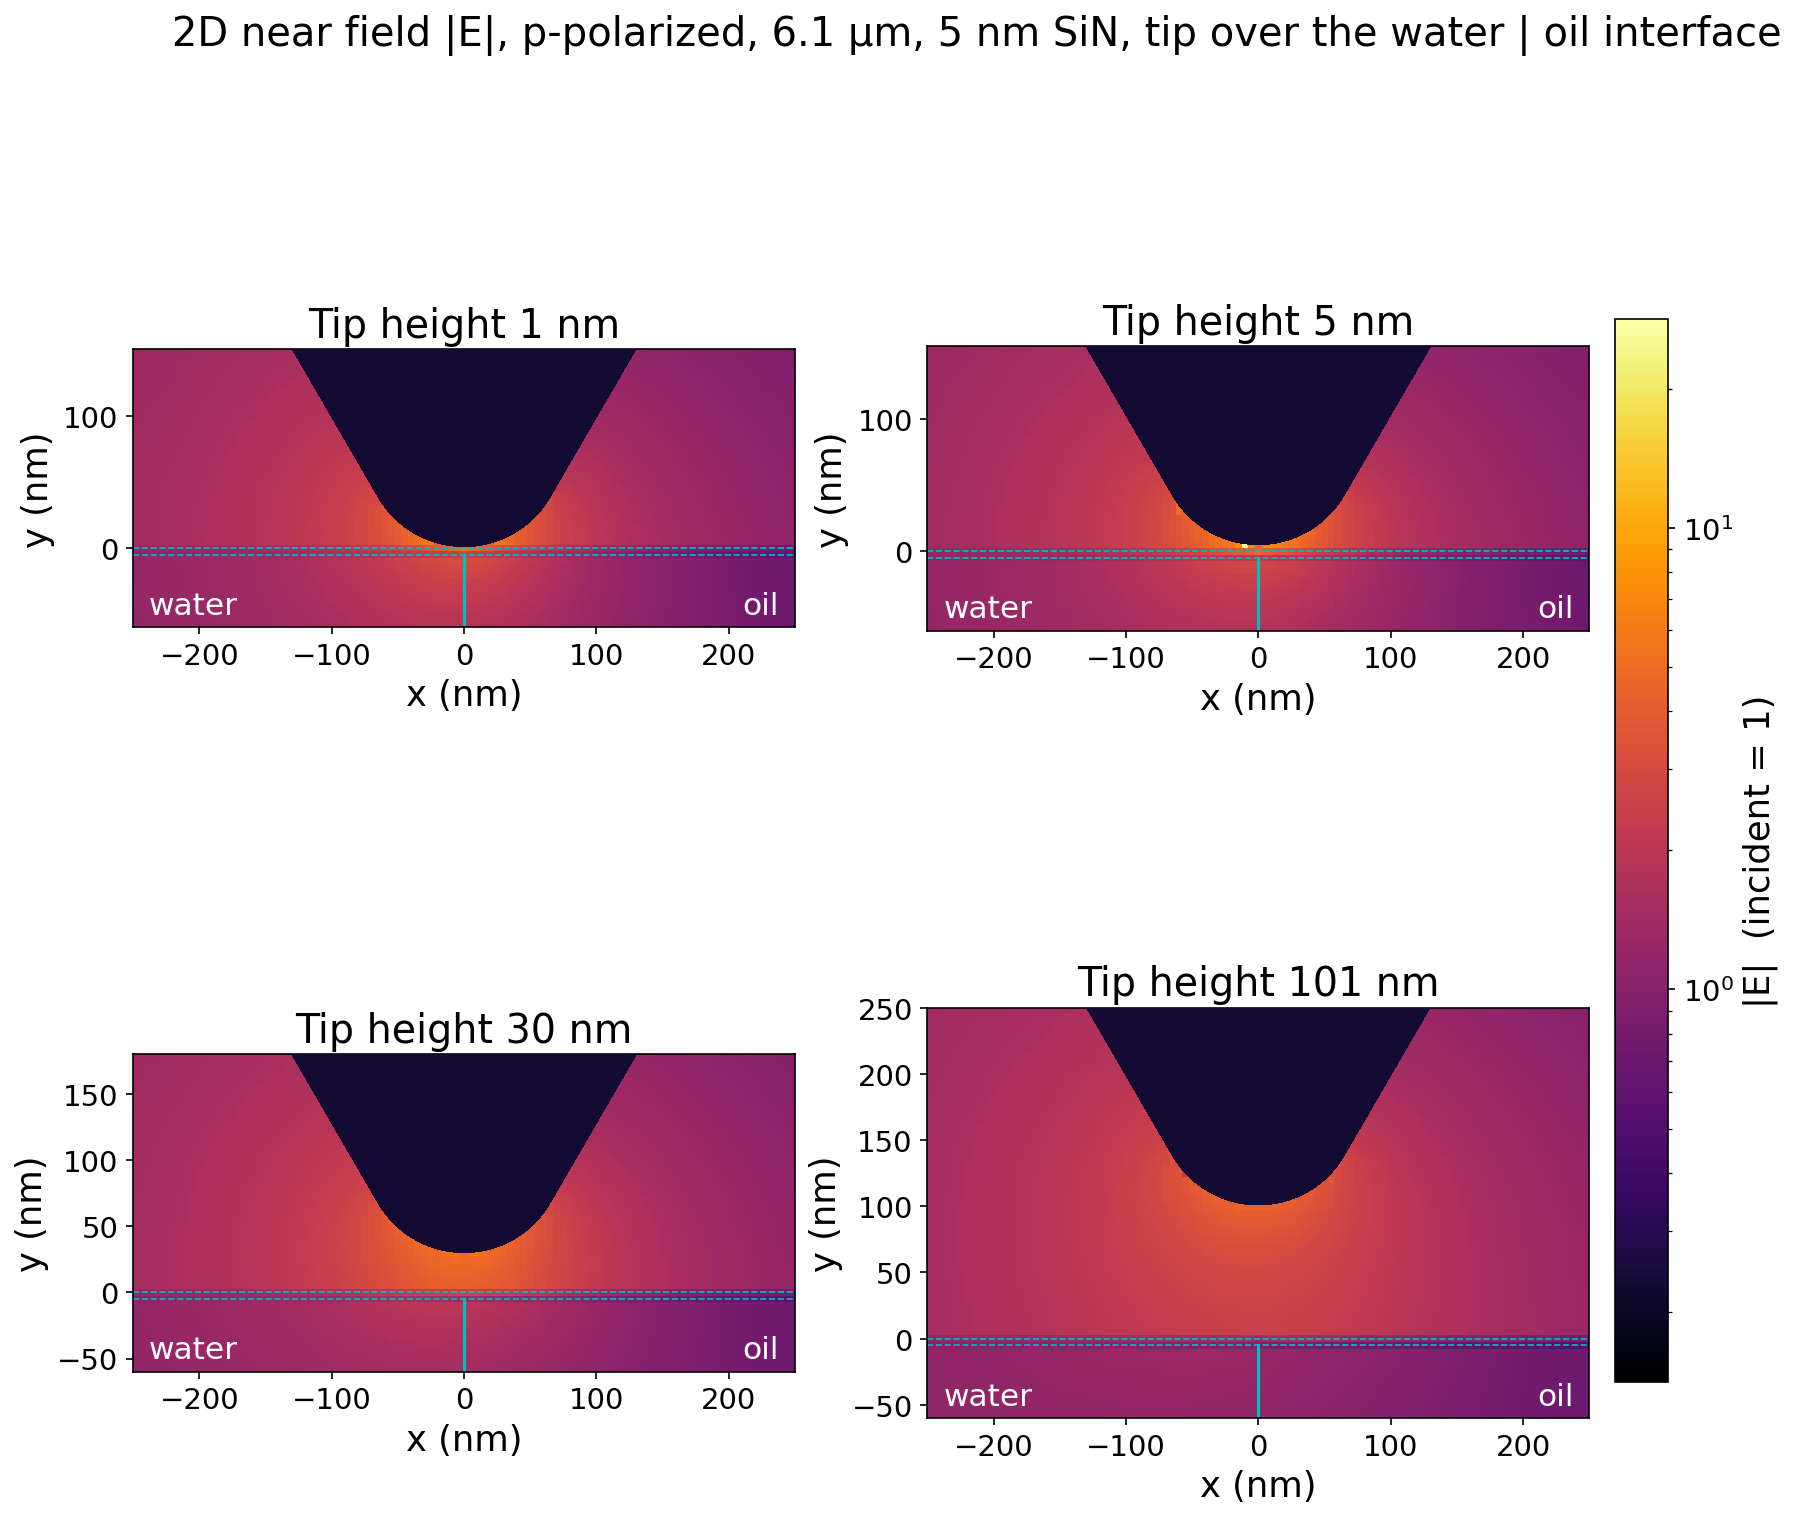
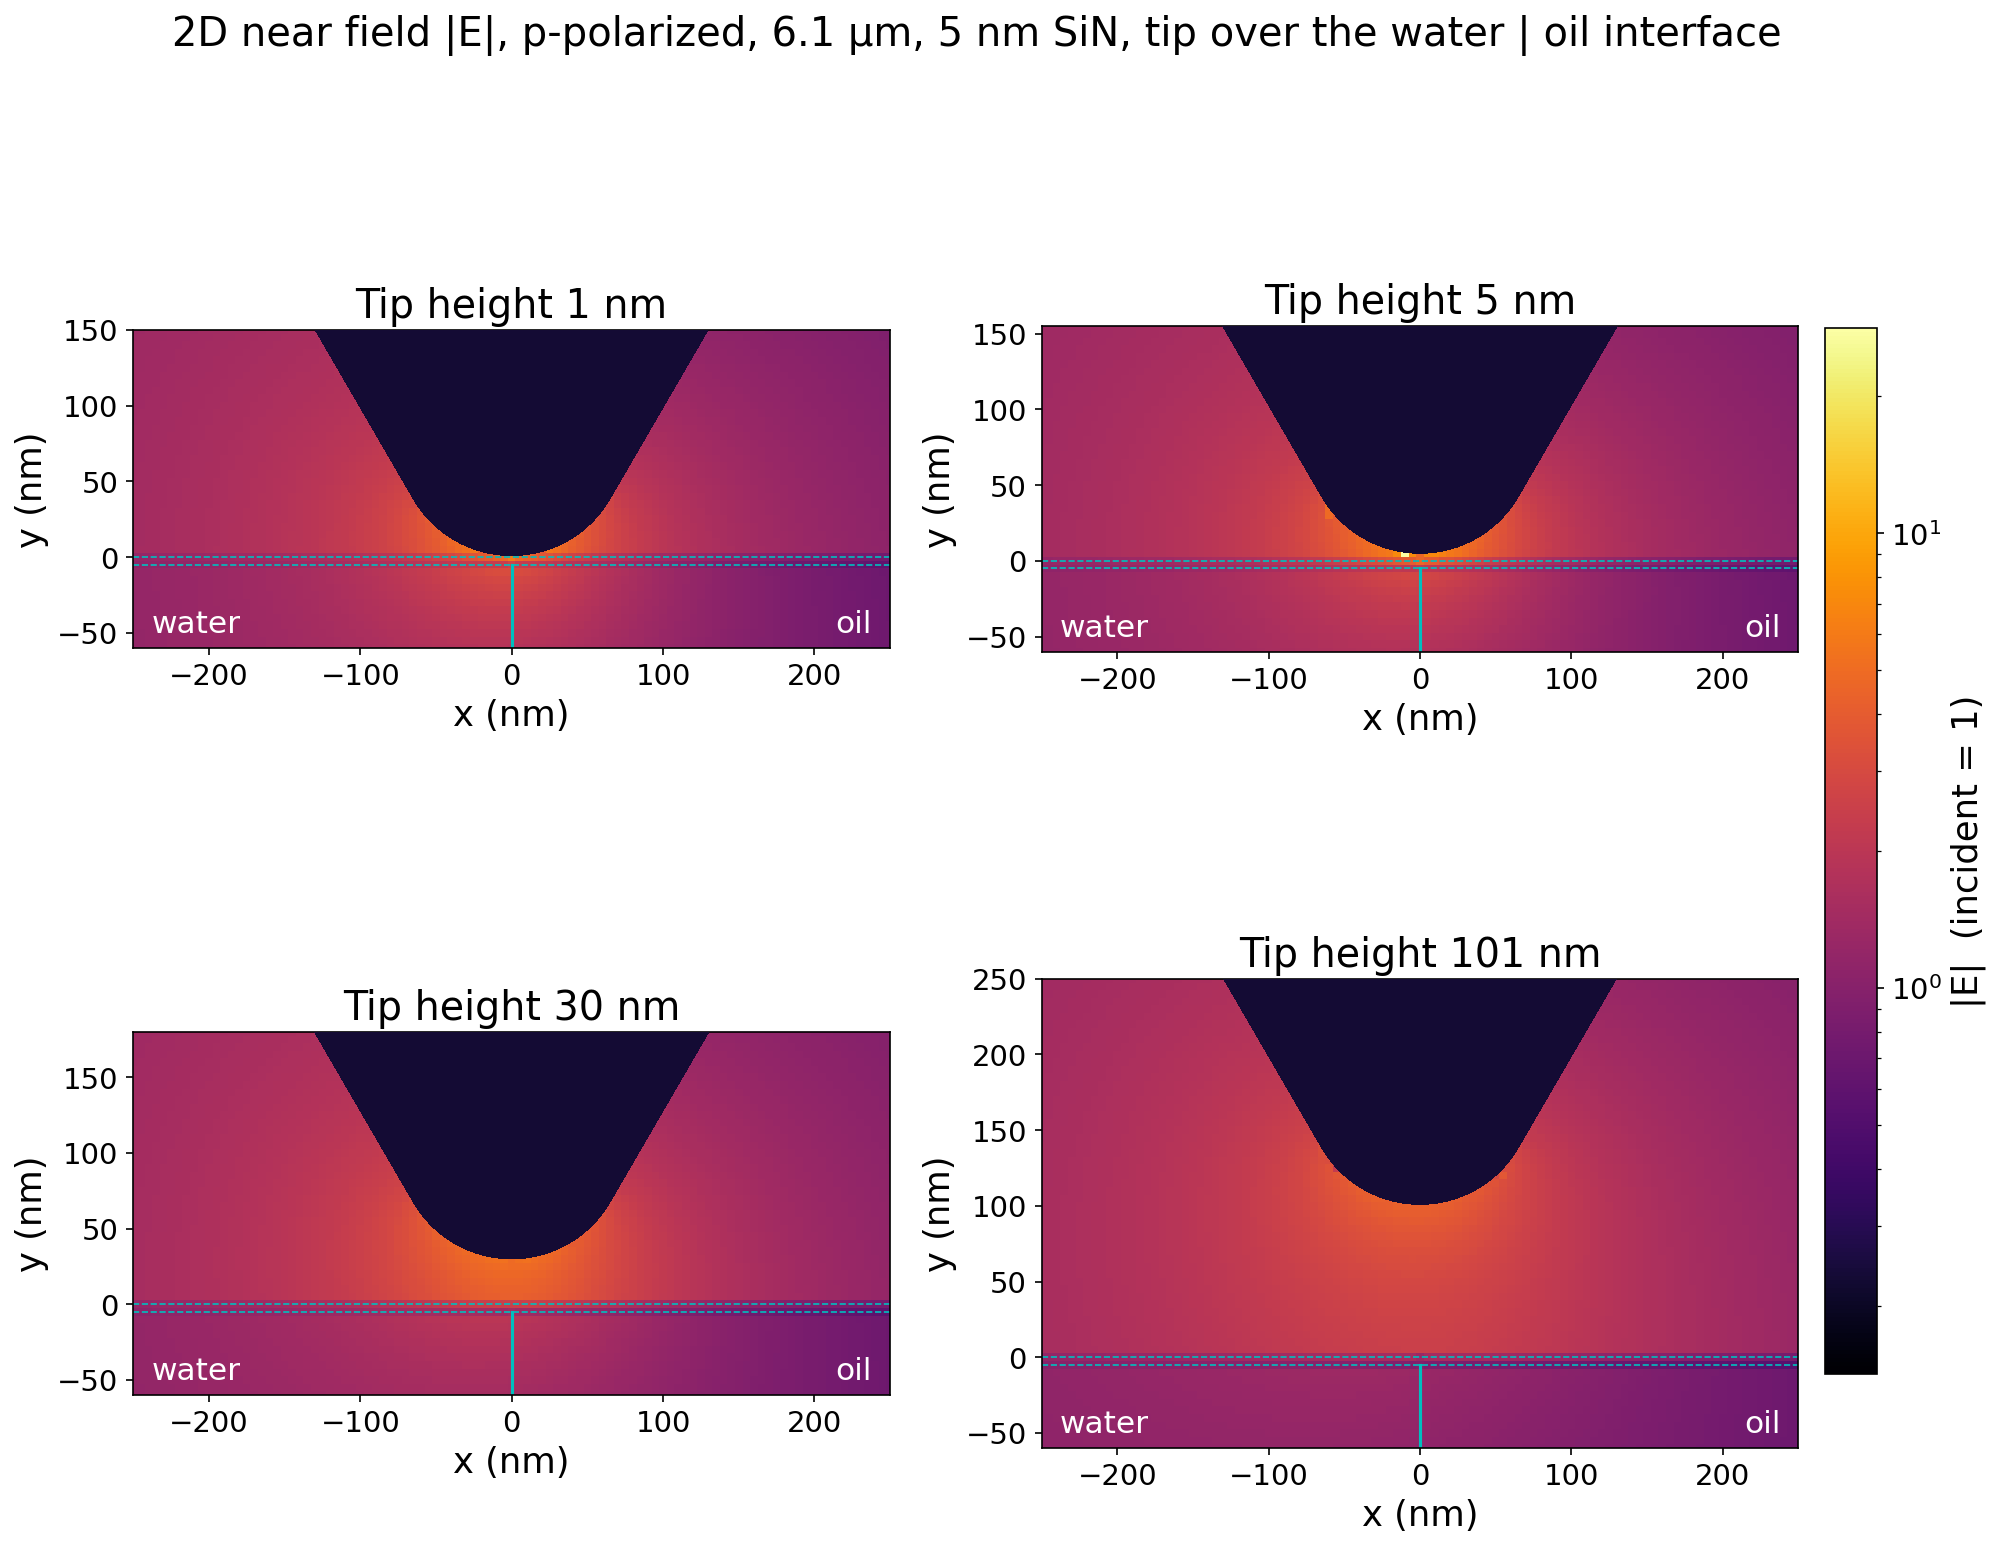
2D: 1/30 nm near-field map pair with mesh, tight layout

diff --git a/Interface_LineScan_2D/plot_2d.py b/Interface_LineScan_2D/plot_2d.py
@@ -1024,7 +1024,7 @@ def read_grid_2d(path):
     return x, y, t[:, :3] - 1, t[:, 3]
 
 
-def plot_nearfield_maps(gaps=(1, 5, 30, 101), mesh=True):
+def plot_nearfield_maps(gaps=(1, 5, 30, 101), mesh=True, out_name=None):
     """|E| (p-polarized) around the apex from results/fields/nearfield_map_x+0_g<gap>.npz, starting mesh overlaid."""
     import glob
     from matplotlib.colors import LogNorm
@@ -1034,11 +1034,17 @@ def plot_nearfield_maps(gaps=(1, 5, 30, 101), mesh=True):
         f = np.load(os.path.join(RESULTS, 'fields', f'nearfield_map_x+0_g{g}.npz'))
         maps[g] = (f['X'], f['Y'], np.linalg.norm(f['E'][1], axis=-1))
     vmax = max(np.nanmax(A) for X, Y, A in maps.values())
-    norm = LogNorm(vmin=vmax/200, vmax=vmax)
+    lo = vmax/200 if len(gaps) != 2 else 0.5          # 2-panel: start the scale near the smallest field outside the tip
+    norm = LogNorm(vmin=lo, vmax=vmax)
     with plt.rc_context({'font.size': 16, 'axes.titlesize': 19, 'axes.labelsize': 17,
                          'xtick.labelsize': 14, 'ytick.labelsize': 14}):
-        fig, axs = plt.subplots(2, 2, figsize=(15, 11.5))
-        axs = axs.ravel()
+        if len(gaps) == 2:                               # side by side, same y range, tight
+            fig, axs = plt.subplots(1, 2, figsize=(14, 4.6), sharey=True, gridspec_kw={'wspace': 0.04})
+            ylim = (max(m[1].min() for m in maps.values()), min(m[1].max() for m in maps.values()))
+        else:
+            fig, axs = plt.subplots(2, 2, figsize=(15, 11.5))
+            ylim = None
+        axs = np.ravel(axs)
         for ax, g in zip(axs, gaps):
             X, Y, A = maps[g]
             px, py, tri, dom = read_grid_2d(glob.glob(os.path.join(RESULTS, 'fields',
@@ -1051,7 +1057,7 @@ def plot_nearfield_maps(gaps=(1, 5, 30, 101), mesh=True):
             from scipy.ndimage import distance_transform_edt
             inside = (tip.get_trifinder()(X, Y) >= 0) | (A < 0.3)       # 2nd: cells sampled inside the metal
             idx = distance_transform_edt(inside, return_distances=False, return_indices=True)
-            Af = np.clip(A, vmax/200, None)[tuple(idx)]
+            Af = np.clip(A, lo, None)[tuple(idx)]
             im = ax.pcolormesh(X, Y, Af, norm=norm, cmap='inferno', shading='auto')
             ax.tripcolor(tip, np.zeros(len(tip.triangles)), cmap=matplotlib.colors.ListedColormap(['#140b34']),
                          shading='flat', zorder=3)
@@ -1063,16 +1069,21 @@ def plot_nearfield_maps(gaps=(1, 5, 30, 101), mesh=True):
             ax.text(X.min() + 12, Y.min() + 10, 'water', color='w', fontsize=15)
             ax.text(X.max() - 12, Y.min() + 10, 'oil', color='w', fontsize=15, ha='right')
             ax.set_xlim(X.min(), X.max())
-            ax.set_ylim(Y.min(), Y.max())
+            ax.set_ylim(*(ylim or (Y.min(), Y.max())))
             ax.set_aspect('equal')
             ax.set_title(f'Tip height {g} nm')
             ax.set_xlabel('x (nm)')
-            ax.set_ylabel('y (nm)')
-        cb = fig.colorbar(im, ax=list(axs), shrink=0.8, pad=0.015)
+            if ax is axs[0] or len(gaps) != 2:
+                ax.set_ylabel('y (nm)')
+        cb = fig.colorbar(im, ax=list(axs), shrink=0.8 if len(gaps) != 2 else 1.0, pad=0.015, fraction=0.03)
+        if len(gaps) == 2:
+            cb.set_ticks([t for t in (0.5, 1, 2, 3, 5) if lo <= t <= vmax])
+            cb.set_ticklabels([f'{t:g}' for t in (0.5, 1, 2, 3, 5) if lo <= t <= vmax])
         cb.set_label('|E|  (incident = 1)')
-        fig.suptitle('2D near field |E|, p-polarized, 6.1 µm, 5 nm SiN, tip over the water | oil interface'
-                     + (' (starting mesh in white)' if mesh else ''))
-        out = os.path.join(FIGS, 'nearfield_maps' + ('_mesh' if mesh else '') + '.png')
+        if len(gaps) != 2:
+            fig.suptitle('2D near field |E|, p-polarized, 6.1 µm, 5 nm SiN, tip over the water | oil interface'
+                         + (' (starting mesh in white)' if mesh else ''))
+        out = os.path.join(FIGS, out_name or ('nearfield_maps' + ('_mesh' if mesh else '') + '.png'))
         fig.savefig(out, dpi=150, bbox_inches='tight')
     print('wrote', out, 'max |E|', vmax)
 
@@ -1083,3 +1094,4 @@ GEOM_T_SIN = 5.0
 if __name__ == '__main__' and len(sys.argv) > 1 and sys.argv[1] == 'nfmaps':
     plot_nearfield_maps(mesh=True)
     plot_nearfield_maps(mesh=False)
+    plot_nearfield_maps(gaps=(1, 30), mesh=True, out_name='nearfield_maps_mesh_1_30nm.png')
